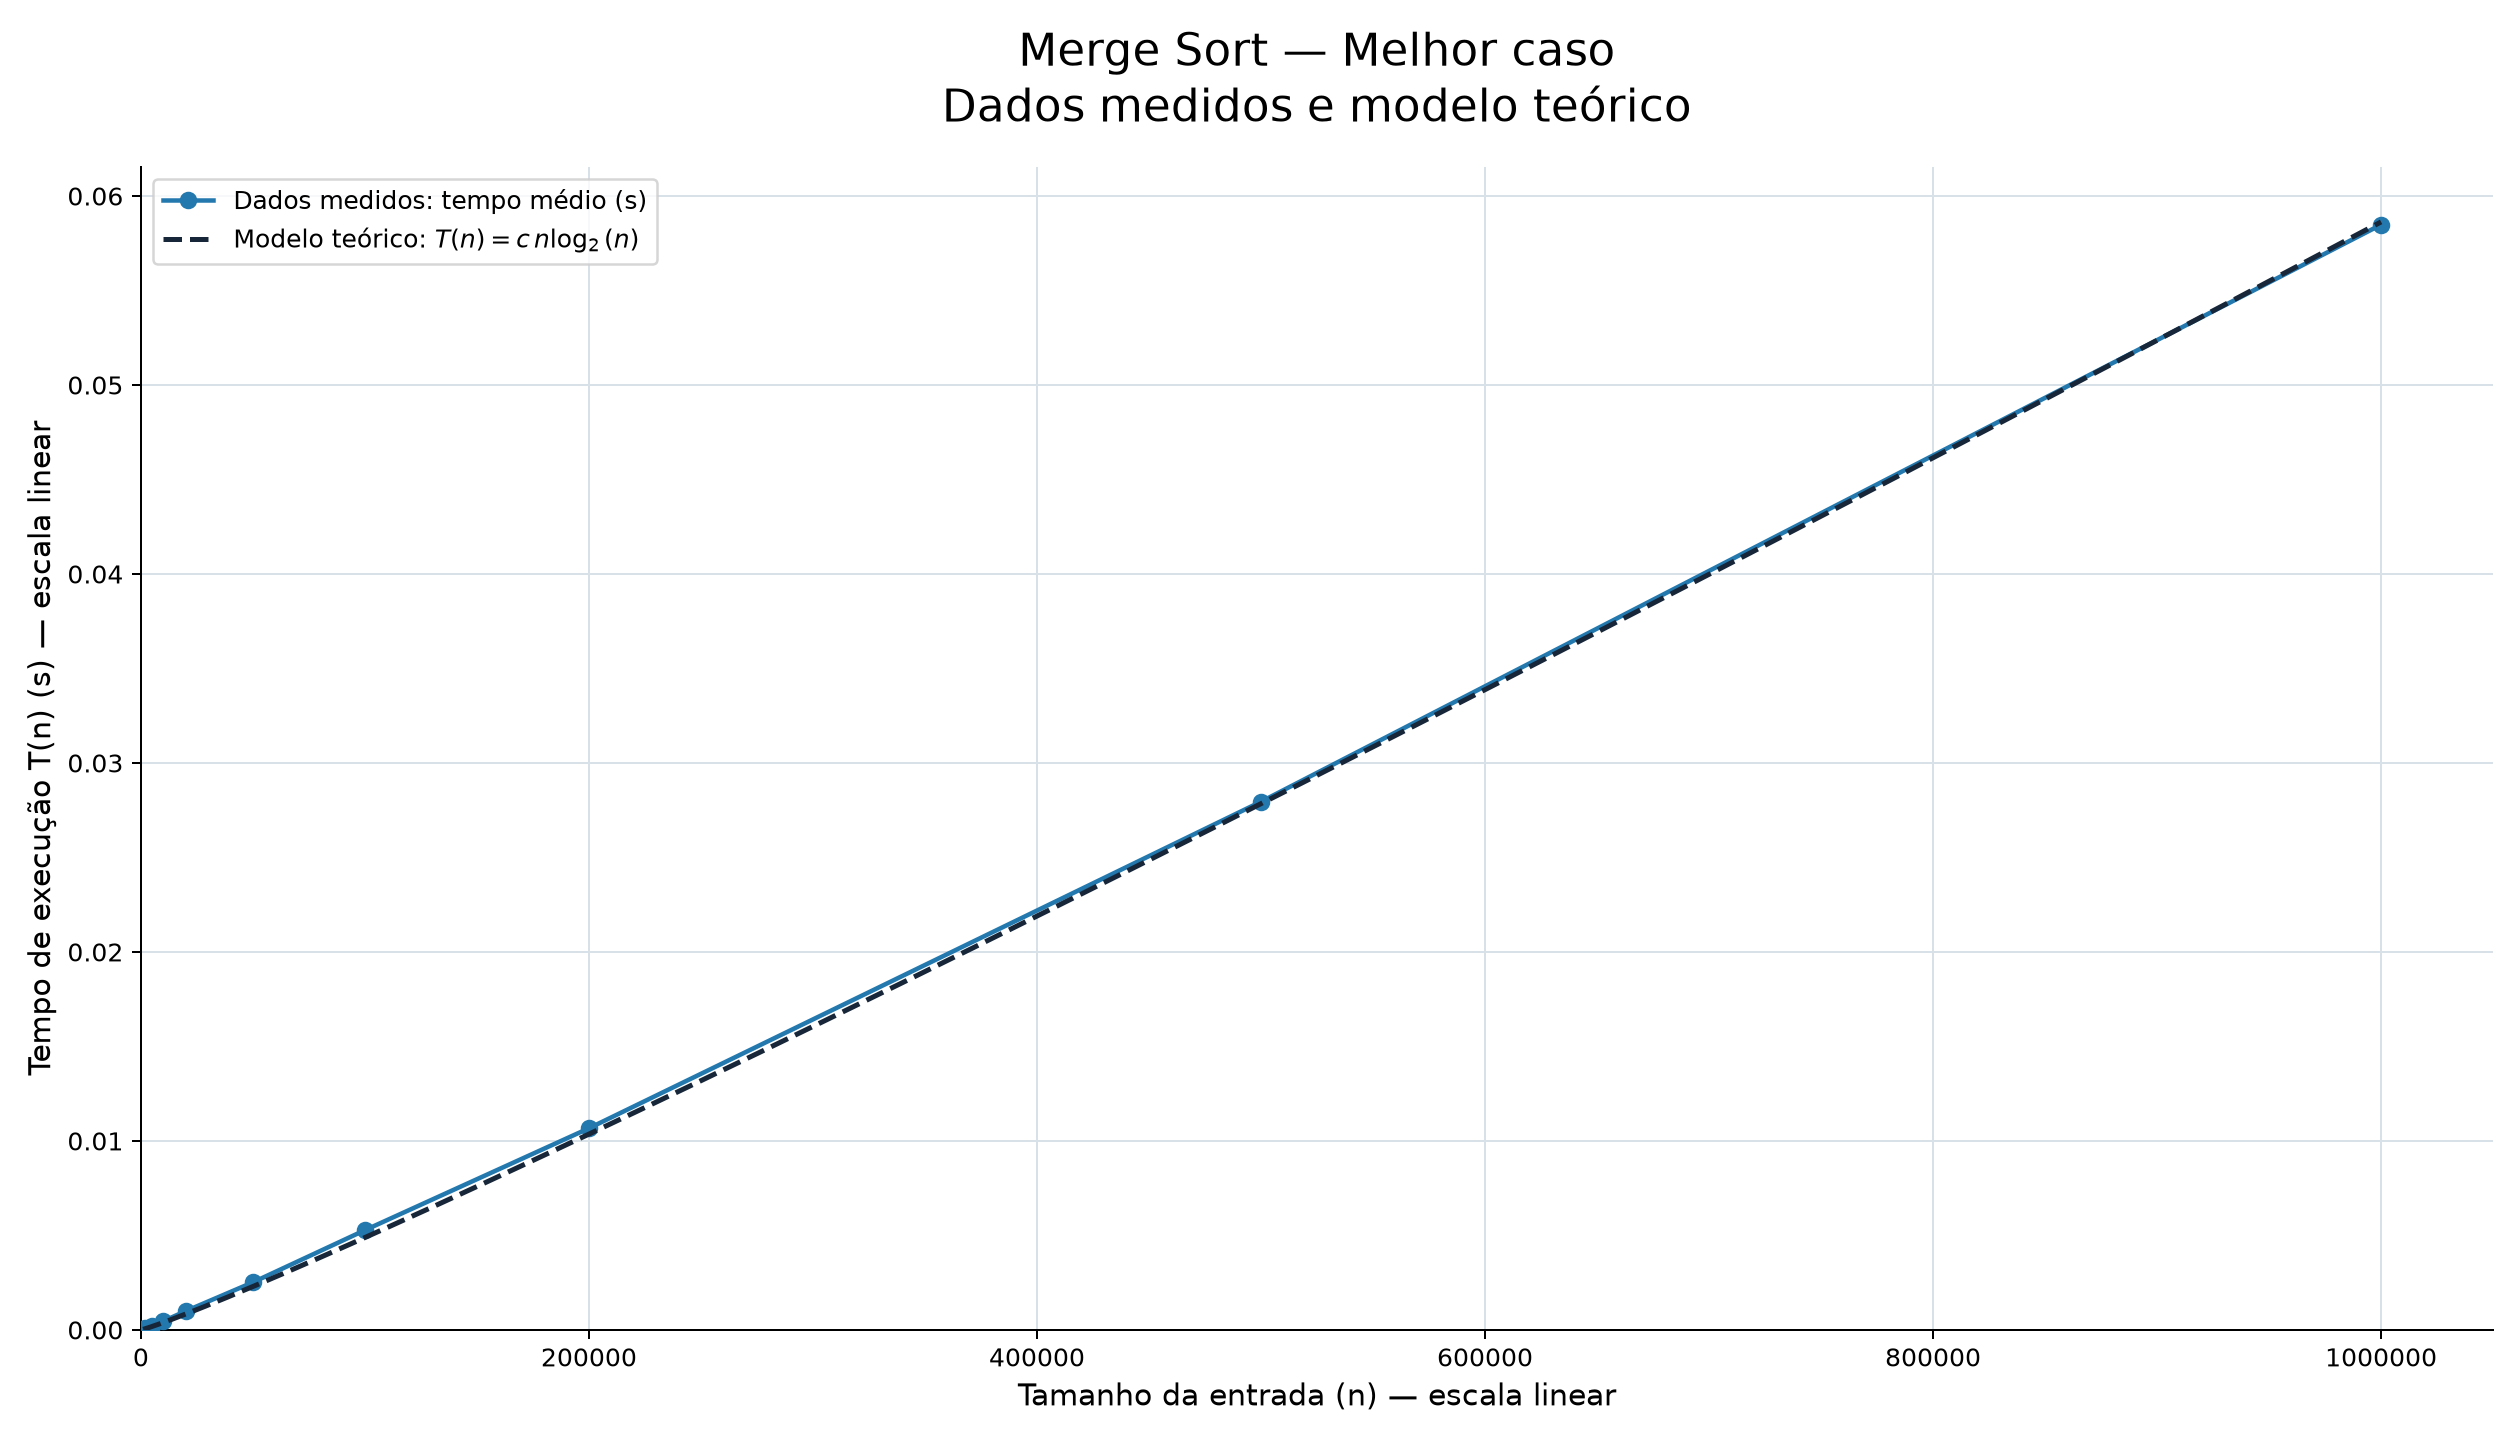
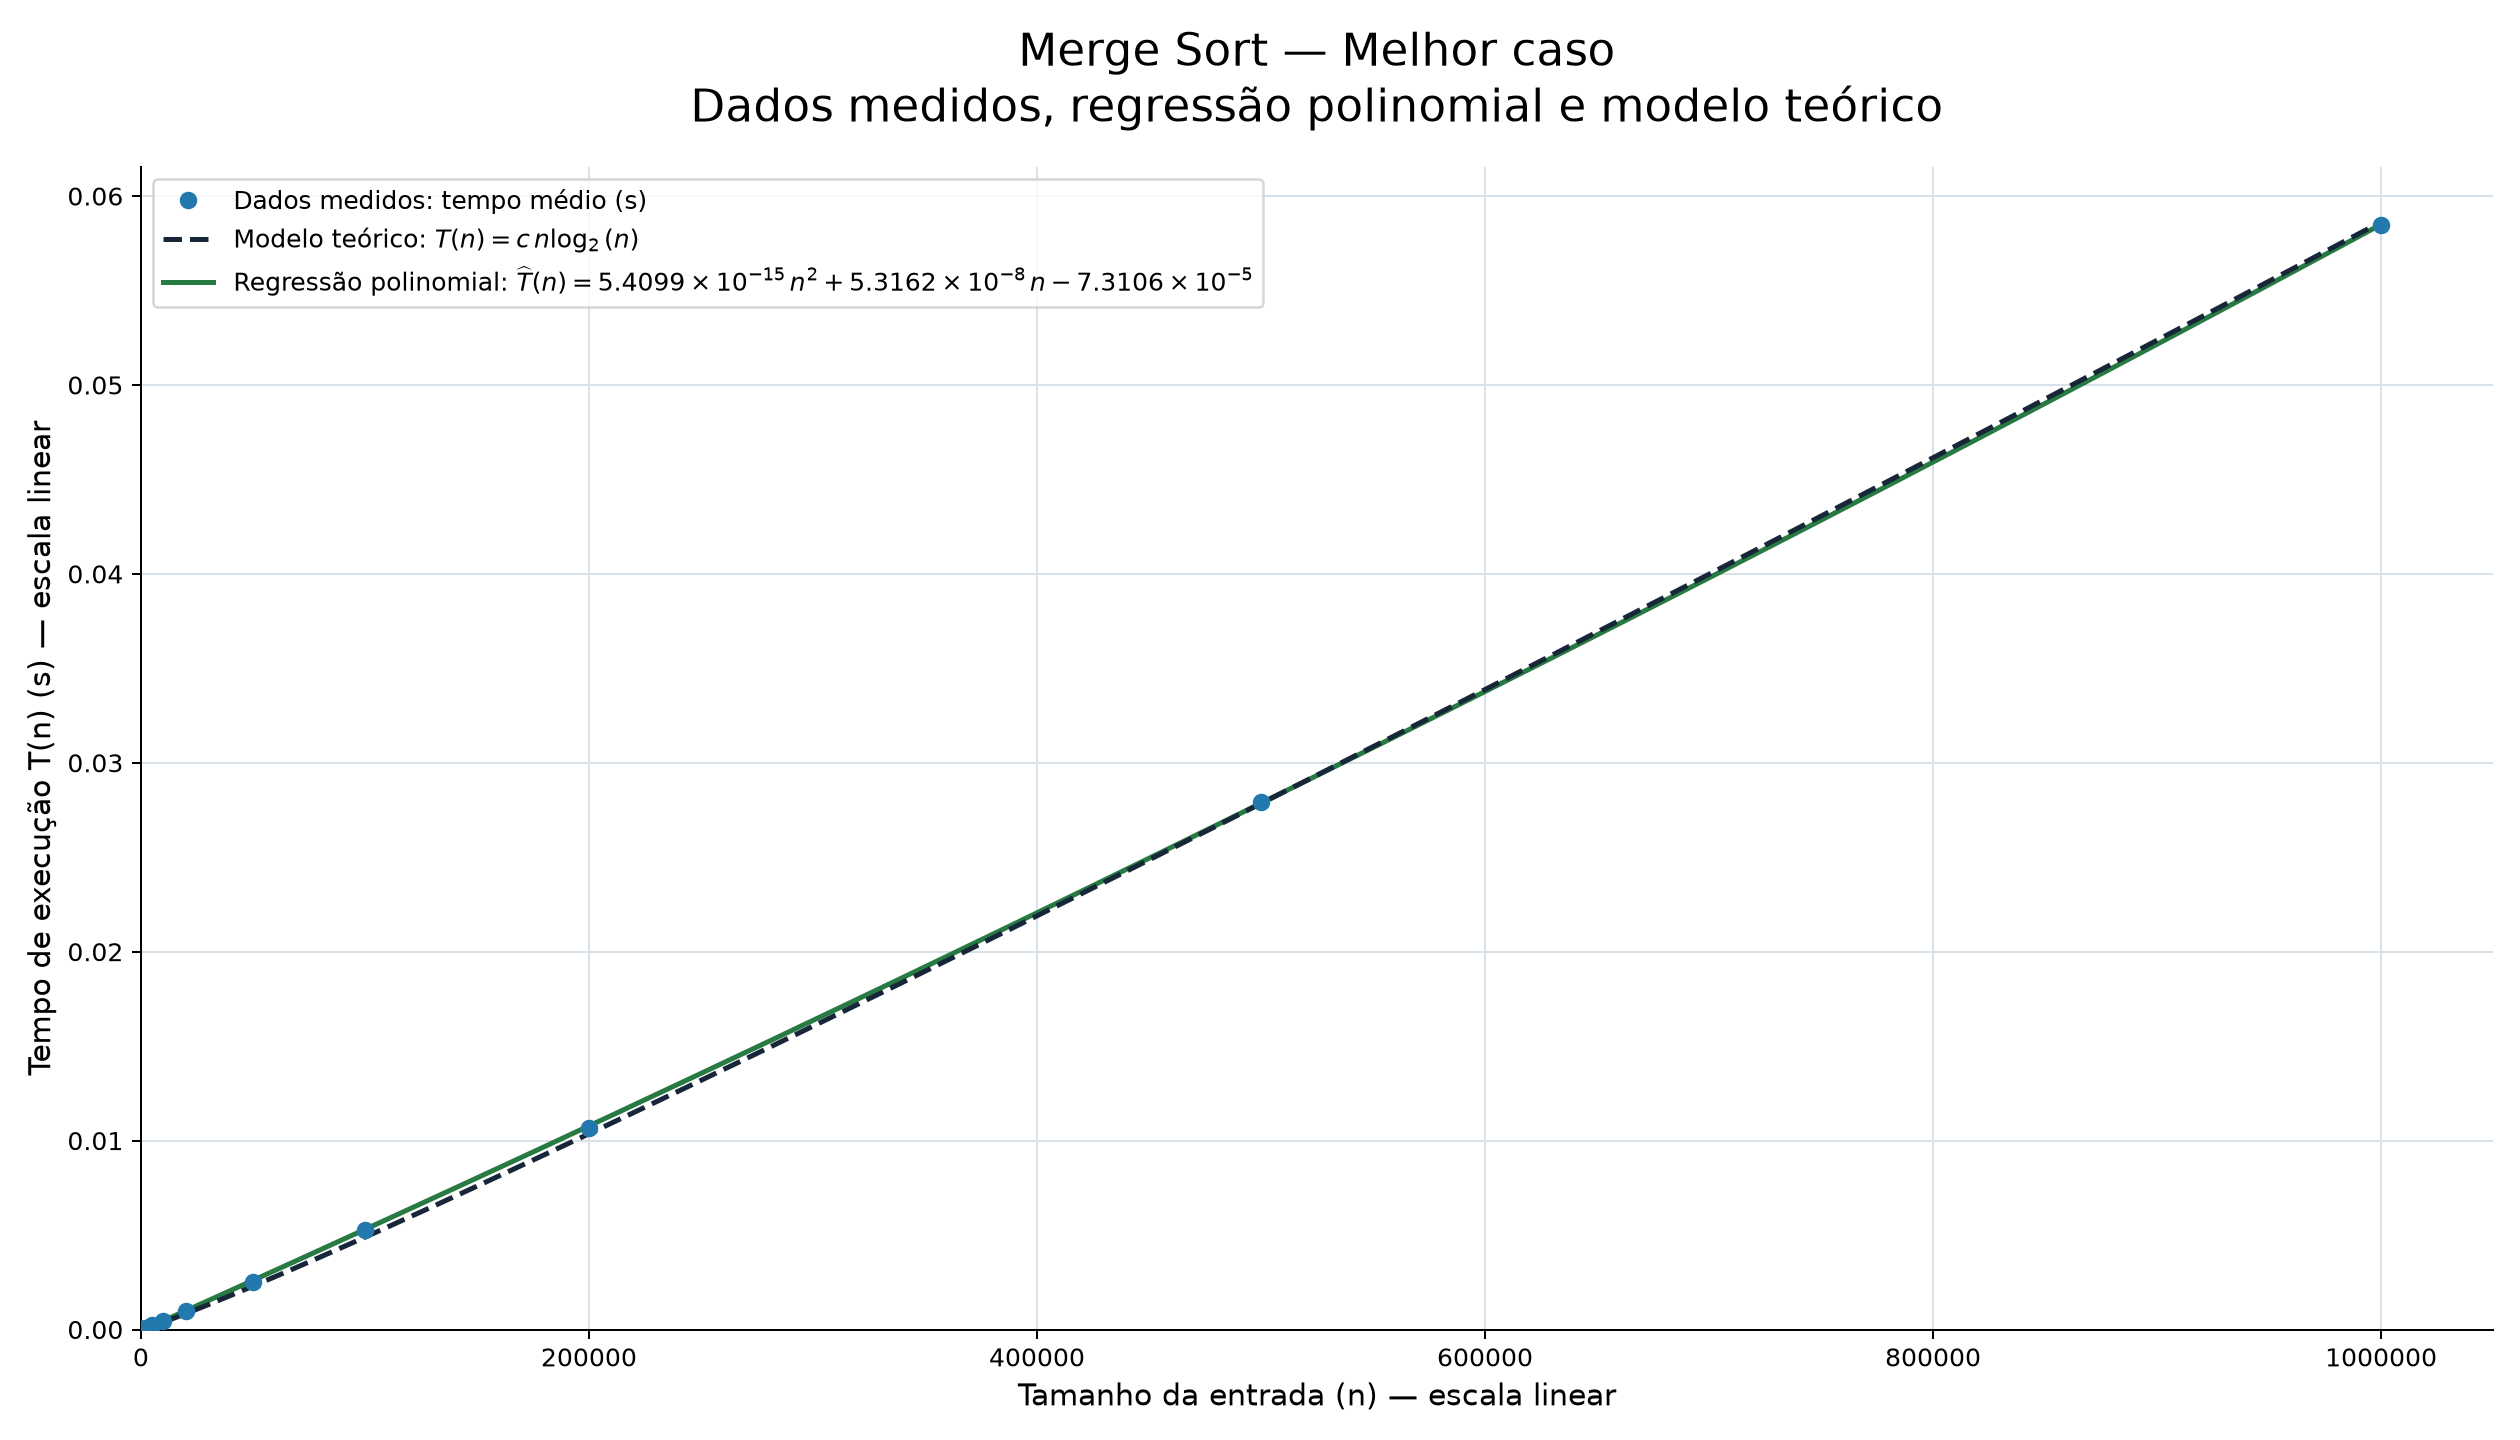
atualiza gráficos teoricos

diff --git a/src/theoretical_graphics.py b/src/theoretical_graphics.py
@@ -6,6 +6,7 @@ matplotlib.use("Agg")
 
 import matplotlib.pyplot as plt
 import numpy as np
+from numpy.polynomial import Polynomial
 
 from graphics import ler_tabela
 
@@ -32,6 +33,25 @@ def theoretical_growth(inputs, algorithm, case):
     return inputs ** 2, "n^2"
 
 
+def polynomial_equation(coefficients):
+    terms = []
+    for power, coefficient in reversed(list(enumerate(coefficients))):
+        if coefficient == 0:
+            continue
+        mantissa, exponent = f"{abs(coefficient):.4e}".split("e")
+        term = fr"{mantissa}\times10^{{{int(exponent)}}}"
+        if power == 1:
+            term += r"\,n"
+        elif power > 1:
+            term += fr"\,n^{{{power}}}"
+        if not terms:
+            terms.append(f"-{term}" if coefficient < 0 else term)
+        else:
+            sign = "-" if coefficient < 0 else "+"
+            terms.append(f"{sign} {term}")
+    return r"\widehat{T}(n) = " + (" ".join(terms) or "0")
+
+
 def generate_chart(algorithm, case, tables_directory, graphics_directory):
     table_file = tables_directory / algorithm / case / "tabela.csv"
     table = ler_tabela(table_file).sort_index()
@@ -47,6 +67,12 @@ def generate_chart(algorithm, case, tables_directory, graphics_directory):
     ):
         raise ValueError(f"Dados inválidos para o modelo teórico em {table_file}.")
 
+    degree = 1 if algorithm == "insertion" and case == "best" else 2
+    if inputs.size <= degree:
+        raise ValueError(f"Dados insuficientes para a regressão em {table_file}.")
+    regression = Polynomial.fit(inputs, measured_times, degree)
+    equation = polynomial_equation(regression.convert().coef)
+
     growth, _ = theoretical_growth(inputs, algorithm, case)
     growth_scale = growth.max()
     scaled_growth = growth / growth_scale
@@ -57,6 +83,7 @@ def generate_chart(algorithm, case, tables_directory, graphics_directory):
     )
     curve_inputs = np.linspace(inputs.min(), inputs.max(), 400)
     curve_growth, formula = theoretical_growth(curve_inputs, algorithm, case)
+    regression_times = regression(curve_inputs)
     algorithm_name, color = ALGORITHMS[algorithm]
 
     figure, axis = plt.subplots(figsize=(14, 8))
@@ -65,10 +92,10 @@ def generate_chart(algorithm, case, tables_directory, graphics_directory):
         measured_times,
         color=color,
         marker="o",
-        linewidth=1.8,
+        linestyle="none",
         markersize=6,
         label="Dados medidos: tempo médio (s)",
-        zorder=3,
+        zorder=6,
     )
     axis.plot(
         curve_inputs,
@@ -77,17 +104,27 @@ def generate_chart(algorithm, case, tables_directory, graphics_directory):
         linestyle="--",
         linewidth=2,
         label=fr"Modelo teórico: $T(n) = c\,{formula}$",
+        zorder=5,
+    )
+    axis.plot(
+        curve_inputs,
+        regression_times,
+        color="#287a43",
+        linestyle="-",
+        linewidth=2,
+        label=fr"Regressão polinomial: ${equation}$",
         zorder=4,
     )
     axis.set_xscale("linear")
     axis.set_yscale("linear")
     axis.set_xlim(left=0)
-    axis.set_ylim(bottom=0)
+    axis.set_ylim(bottom=min(0, regression_times.min()))
     axis.ticklabel_format(axis="x", style="plain")
     axis.set_xlabel("Tamanho da entrada (n) — escala linear", fontsize=12)
     axis.set_ylabel("Tempo de execução T(n) (s) — escala linear", fontsize=12)
     axis.set_title(
-        f"{algorithm_name} — {CASES[case]}\nDados medidos e modelo teórico",
+        f"{algorithm_name} — {CASES[case]}\n"
+        "Dados medidos, regressão polinomial e modelo teórico",
         fontsize=18,
         pad=18,
     )
